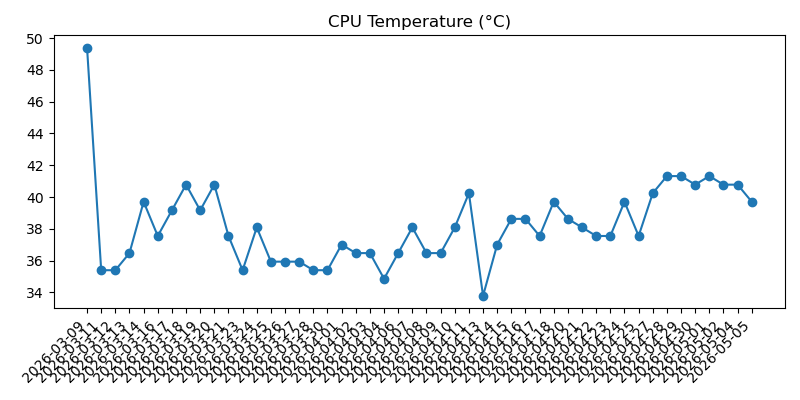
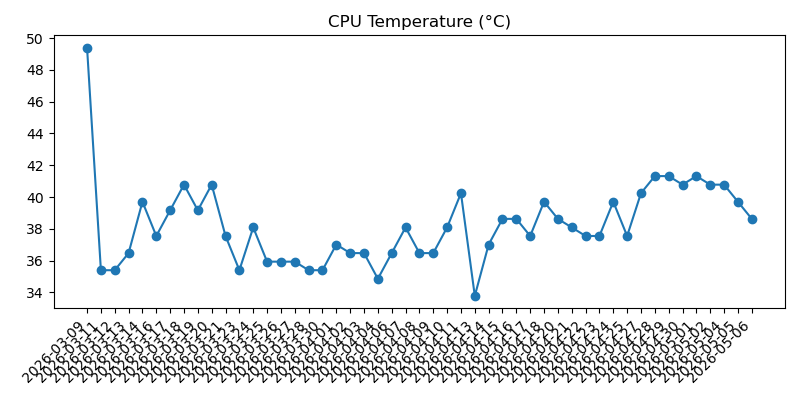
Add daily health and weather snapshot

Changed region(s): [[0.0625, 0.78, 0.9375, 0.96], [0.1562, 0.42, 0.9688, 0.75], [0.125, 0.63, 0.1562, 0.66]]

diff --git a/2026-05.md b/2026-05.md
@@ -136,3 +136,37 @@
 - Overall: Warning
 - Warning: Power issue detected: Undervoltage has occurred; Throttling has occurred
 
+## 2026-05-06 11:35:02
+
+### Machine
+- Uptime: up 2 weeks, 1 day, 13 hours, 20 minutes
+- CPU load (1m, 5m, 15m): 0.00, 0.00, 0.00
+- RAM used: 167 MB / 921 MB (18.1%)
+- Disk used (/): 3.5 GB / 28.8 GB (12.2%)
+- Free disk space (/): 24.1 GB
+- CPU temp: 38.6°C
+- Voltage / throttling: Undervoltage has occurred; Throttling has occurred
+
+### Reachability
+- Internet check (1.1.1.1): Reachable (3.7 ms)
+
+### Weather
+- Madrid:
+  - Condition: Poco nuboso
+  - Max temp: 21°C
+  - Min temp: 8°C
+  - Feels like: 15°C
+  - Chance of rain: 0%
+  - Warnings: None reported
+- Barcelona:
+  - Condition: Intervalos nubosos con lluvia escasa
+  - Max temp: 21°C
+  - Min temp: 13°C
+  - Feels like: 17°C
+  - Chance of rain: 50%
+  - Warnings: None reported
+
+### Health
+- Overall: Warning
+- Warning: Power issue detected: Undervoltage has occurred; Throttling has occurred
+
